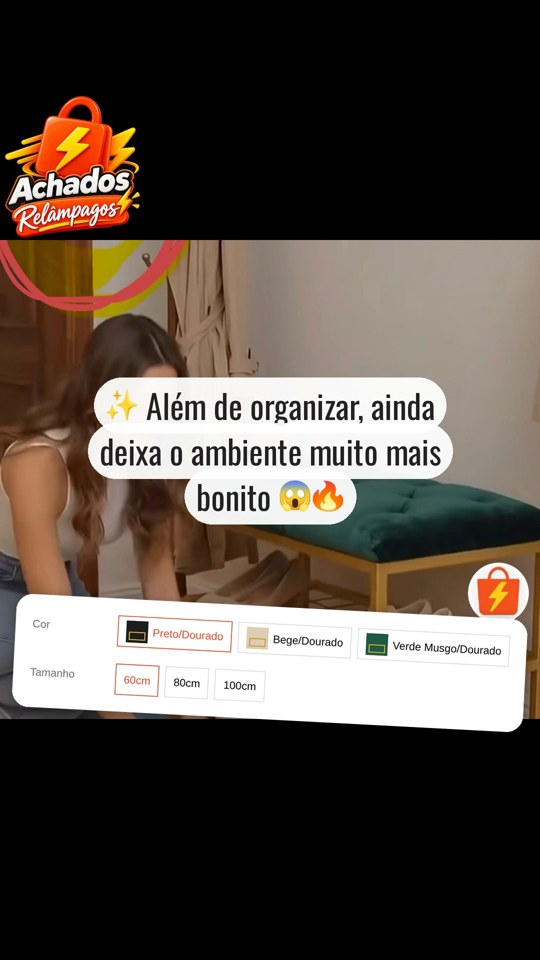
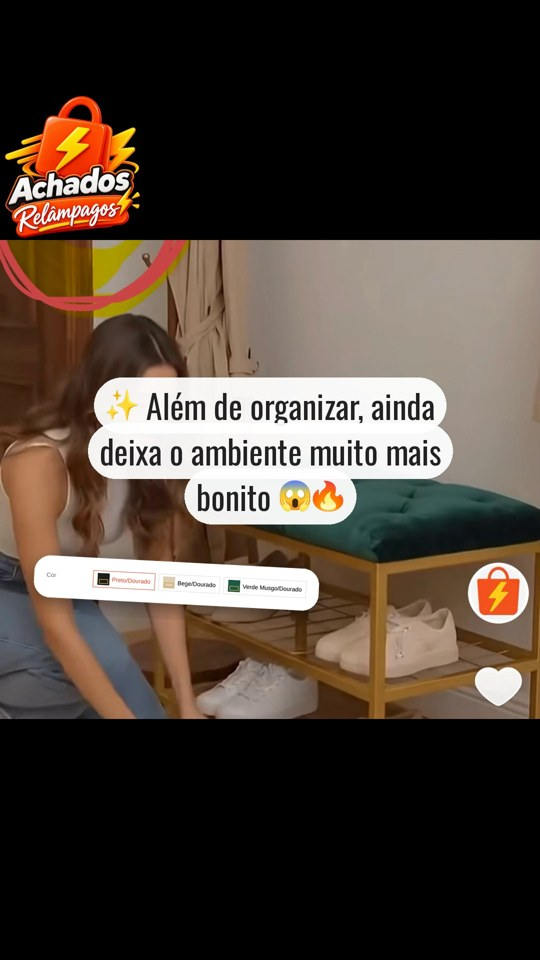
feat: color-only sticker on the left half and cover approval button
The sticker now shows only the color variation, at half the video width
on the left, just below the middle. Editados gets an 'Aprovar capa'
button; scheduling requires an approved cover and a new headline resets it.

Claude-Session: https://claude.ai/code/session_01R26CdM2Y4MRhsfn3Xuq2jA

Changed region(s): [[0.0, 0.5625, 0.9778, 0.7812]]

diff --git a/shopee-video-automation/bot.py b/shopee-video-automation/bot.py
@@ -129,11 +129,17 @@ class Bot:
 
     # ---------- Editados ----------
 
+    @staticmethod
+    def editados_markup(post: Dict) -> str:
+        pid = post['id']
+        capa = ('✅ Capa aprovada', f"cv:{pid}") if post['cover_approved'] else ('✅ Aprovar capa', f"cv:{pid}")
+        return keyboard(
+            [capa, ('🔄 Outra headline', f"hl:{pid}")],
+            [('✅ Aprovar e agendar', f"ap:{pid}"), ('❌ Descartar', f"dc:{pid}")])
+
     def send_to_editados(self, post: Dict):
         ids = self.tg.send_cover_and_video(EDITADOS, post['cover_path'], post['video_path'])
-        ids.append(self.tg.send_text(EDITADOS, post_text(post), markup=keyboard(
-            [('✅ Aprovar', f"ap:{post['id']}"), ('🔄 Outra headline', f"hl:{post['id']}")],
-            [('❌ Descartar', f"dc:{post['id']}")])))
+        ids.append(self.tg.send_text(EDITADOS, post_text(post), markup=self.editados_markup(post)))
         self.db.update_post(post['id'], editados_msgs=ids)
 
     def job_headline(self, post_id: int, headline: Optional[str]):
@@ -145,7 +151,7 @@ class Bot:
         cover = self.pipeline.make_cover(post['video_path'], headline, post.get('sticker_path'))
         metadata = {**post['metadata'], 'cover_title': headline}
         self.tg.delete(post['editados_msgs'])
-        self.db.update_post(post_id, metadata=metadata, cover_path=cover)
+        self.db.update_post(post_id, metadata=metadata, cover_path=cover, cover_approved=0)
         self.db.add_headline(post['product_key'], headline)
         self.send_to_editados(self.db.get_post(post_id))
 
@@ -165,7 +171,18 @@ class Bot:
             self.tg.answer_callback(cb['id'], 'Post não encontrado')
             return
 
-        if action == 'ap' and post['status'] == 'editado':
+        if action == 'cv' and post['status'] == 'editado':
+            if post['cover_approved']:
+                self.tg.answer_callback(cb['id'], 'Capa já aprovada')
+                return
+            self.db.update_post(post['id'], cover_approved=1)
+            self.tg.edit_markup(post['editados_msgs'][-1], self.editados_markup(self.db.get_post(post['id'])))
+            self.tg.answer_callback(cb['id'], 'Capa aprovada')
+
+        elif action == 'ap' and post['status'] == 'editado' and not post['cover_approved']:
+            self.tg.answer_callback(cb['id'], 'Aprove a capa primeiro (✅ Aprovar capa)')
+
+        elif action == 'ap' and post['status'] == 'editado':
             slot = scheduler.next_slot(post['product_key'], self.db.scheduled())
             self.tg.delete(post['editados_msgs'])
             self.db.update_post(post['id'], status='agendado', scheduled_at=slot.isoformat(), editados_msgs=[])

diff --git a/shopee-video-automation/product_page_capture.py b/shopee-video-automation/product_page_capture.py
@@ -1,5 +1,5 @@
 """
-Print das variações do produto (Cor, Tamanho...) na página do vendedor, recortado.
+Print da variação de cores do produto na página do vendedor, recortado.
 Primeiro localiza o bloco pelos rótulos da página; se não achar, a IA aponta a área no print.
 """
 
@@ -20,9 +20,7 @@ logger = logging.getLogger(__name__)
 VIEWPORT = {'width': 1280, 'height': 900}
 USER_AGENT = ('Mozilla/5.0 (Windows NT 10.0; Win64; x64) AppleWebKit/537.36 '
               '(KHTML, like Gecko) Chrome/140.0.0.0 Safari/537.36')
-LABELS = ['cor', 'cores', 'tamanho', 'tamanhos', 'variacao', 'variacoes', 'modelo', 'modelos',
-          'estampa', 'sabor', 'voltagem', 'kit', 'opcao', 'opcoes', 'tipo', 'medida', 'medidas',
-          'numeracao', 'quantidade de pecas']
+LABELS = ['cor', 'cores', 'cor do produto', 'cores disponiveis']
 PADDING = 14
 SEARCH_HEIGHT = 1600
 
@@ -81,10 +79,10 @@ def _bbox_by_ai(png: bytes, width: int, height: int):
                                      'data': base64.standard_b64encode(png).decode()}},
         {'type': 'text', 'text': (
             f"Print da página de um produto da Shopee ({width}x{height} px). "
-            "Localize o bloco de VARIAÇÕES do produto: os rótulos (ex.: Cor, Tamanho) com os botões "
-            "das opções, incluindo as miniaturas. Não inclua preço, frete, quantidade nem botões de compra. "
+            "Localize SOMENTE a linha de variação de COR do produto: o rótulo (ex.: Cor) com os botões "
+            "das cores, incluindo as miniaturas. Não inclua tamanho, preço, frete, quantidade nem botões de compra. "
             "Responda as coordenadas em pixels desta imagem (canto superior esquerdo e inferior direito). "
-            "Se o produto não tiver variações, encontrou=false.")},
+            "Se o produto não tiver variação de cor, encontrou=false.")},
     ], BBOX_SCHEMA, max_tokens=2000)
     if not data['encontrou'] or data['x1'] <= data['x0'] or data['y1'] <= data['y0']:
         return None
@@ -114,7 +112,7 @@ def capture_variations(product_url: str, out_path: Path, wait_ms: int = 5000) ->
                                       full_page=True, scale='css')
                 box = _bbox_by_ai(png, VIEWPORT['width'], SEARCH_HEIGHT)
                 if not box:
-                    logger.info("Produto sem bloco de variações encontrado")
+                    logger.info("Produto sem variação de cor encontrada")
                     return None
                 x0, y0, x1, y1 = box
                 source = 'IA'

diff --git a/shopee-video-automation/cover_generator.py b/shopee-video-automation/cover_generator.py
@@ -26,9 +26,10 @@ PILL_PAD_X_RATIO = 0.35
 PILL_PAD_Y_RATIO = 0.10
 LINE_OVERLAP_RATIO = 0.18
 TEXT_COLOR = (34, 34, 34, 255)
-# Figurinha com o print das variações, abaixo da headline
-STICKER_TOP_RATIO = 0.60
-STICKER_MAX_W_RATIO = 0.92
+# Figurinha com o print das cores: metade da largura, lado esquerdo, logo abaixo do meio
+STICKER_TOP_RATIO = 0.56
+STICKER_LEFT_RATIO = 0.03
+STICKER_WIDTH_RATIO = 0.50
 STICKER_MAX_H_RATIO = 0.30
 STICKER_ROTATION = -3
 PILL_COLOR = (255, 255, 255, 240)
@@ -154,7 +155,8 @@ class CoverGenerator:
     def _sticker(self, path: str) -> Image.Image:
         """Recorte com cara de figurinha: borda branca, cantos arredondados, sombra e leve giro."""
         img = Image.open(path).convert('RGBA')
-        img.thumbnail((int(self.width * STICKER_MAX_W_RATIO), int(self.height * STICKER_MAX_H_RATIO)), Image.LANCZOS)
+        scale = min(self.width * STICKER_WIDTH_RATIO / img.width, self.height * STICKER_MAX_H_RATIO / img.height)
+        img = img.resize((round(img.width * scale), round(img.height * scale)), Image.LANCZOS)
         border = int(self.width * 0.014)
         radius = int(self.width * 0.03)
         w, h = img.width + 2 * border, img.height + 2 * border
@@ -182,7 +184,7 @@ class CoverGenerator:
                 sticker = self._sticker(sticker_path)
                 top = int(self.height * STICKER_TOP_RATIO)
                 top = min(top, self.height - sticker.height - int(self.height * 0.03))
-                frame.alpha_composite(sticker, ((self.width - sticker.width) // 2, top))
+                frame.alpha_composite(sticker, (int(self.width * STICKER_LEFT_RATIO), top))
             lines = self._wrap(title)
             ascent, descent = self.font.getmetrics()
             pill_h = ascent + descent + 2 * int(self.font_size * PILL_PAD_Y_RATIO)

diff --git a/shopee-video-automation/telegram_handler.py b/shopee-video-automation/telegram_handler.py
@@ -77,6 +77,13 @@ class TelegramBot:
                 'chat_id': self.chat_id, 'caption': caption, 'parse_mode': 'HTML', **self._thread(thread_id)},
                 files={'photo': photo})['message_id']
 
+    def edit_markup(self, message_id: int, markup: str):
+        try:
+            self.call('editMessageReplyMarkup', data={
+                'chat_id': self.chat_id, 'message_id': message_id, 'reply_markup': markup})
+        except RuntimeError as e:
+            logger.warning(f"Não consegui atualizar os botões: {e}")
+
     def delete(self, message_ids: List[int]):
         for chunk in range(0, len(message_ids), 100):
             try:

diff --git a/shopee-video-automation/storage.py b/shopee-video-automation/storage.py
@@ -27,6 +27,7 @@ CREATE TABLE IF NOT EXISTS posts (
     video_path TEXT,
     cover_path TEXT,
     sticker_path TEXT,
+    cover_approved INTEGER DEFAULT 0,
     editados_msgs TEXT DEFAULT '[]',
     agenda_msgs TEXT DEFAULT '[]',
     scheduled_at TEXT

diff --git a/shopee-video-automation/README.md b/shopee-video-automation/README.md
@@ -17,8 +17,9 @@ outros vendedores), com aprovação e agenda.
 
 Reações: 👌 recebido · ✍ link guardado para a próxima leva · 👍 editado · 🤔 não deu (o robô explica).
 
-**✅ Editados** — capa + vídeo + textos e links. Botões **✅ Aprovar** · **🔄 Outra headline** ·
-**❌ Descartar**. Para usar uma headline sua, **responda** a mensagem com o texto.
+**✅ Editados** — capa + vídeo + textos e links. Botões **✅ Aprovar capa** · **🔄 Outra headline** ·
+**✅ Aprovar e agendar** (só depois da capa aprovada) · **❌ Descartar**. Trocar a headline pede nova
+aprovação da capa. Para usar uma headline sua, **responda** a mensagem com o texto.
 
 **⏰ Agenda** — aprovados com dia e horário. Na hora: aviso "⏰ Hora de postar!" e botão
 **✅ Postei**, que move para Postados. (Quando o bot que posta na Shopee for conectado, esse envio
@@ -31,7 +32,7 @@ fica automático.)
 | Produto | Descoberto pelo link (produto, link curto ou link de vídeo); a IA confere nos quadros do vídeo |
 | Links extras | Mesmo produto em outras lojas, maior comissão (sem piso), nota ≥ 4,5, confirmado pela IA |
 | Sub_id | `Data + SV + Produto` (ex.: `11Out26SVSapateiraBanco`), `V2`/`V3` se repetir; o mesmo nos 3 links |
-| Capa | Quadro do vídeo com logo, headline e **figurinha com o print das variações** do produto principal (Cor, Tamanho...) |
+| Capa | Quadro do vídeo com logo, headline e **figurinha com o print das cores** do produto principal, metade da largura, lado esquerdo, logo abaixo do meio |
 | Headline | Gerada pela IA, até 60 caracteres, termina com 😱🔥, nunca repete para o mesmo produto |
 | Compliance | Sem preço, sem falsa escassez, sem inventar características, avaliações ou descontos |
 | Agenda | 10 posts/dia entre 9h e 22h, horários quebrados, nunca o mesmo produto no mesmo dia |
@@ -62,7 +63,7 @@ Se a Shopee pedir login/captcha ao abrir páginas de vídeo, rode uma vez com
 | `pipeline.py` | Prepara um vídeo do início ao fim |
 | `shopee_affiliate.py` | API de afiliados: produto, outros vendedores, link de afiliado |
 | `video_page_reader.py` | Abre a página do Shopee Video e acha os produtos |
-| `product_page_capture.py` | Print recortado das variações na página do produto |
+| `product_page_capture.py` | Print recortado da variação de cores na página do produto |
 | `product_matcher.py` | Conferência vídeo × produto por IA |
 | `content_generator.py` | Headline, descrição, hashtags, SEO |
 | `video_processor.py` / `cover_generator.py` | Vídeo 9:16 com logo / capa |
